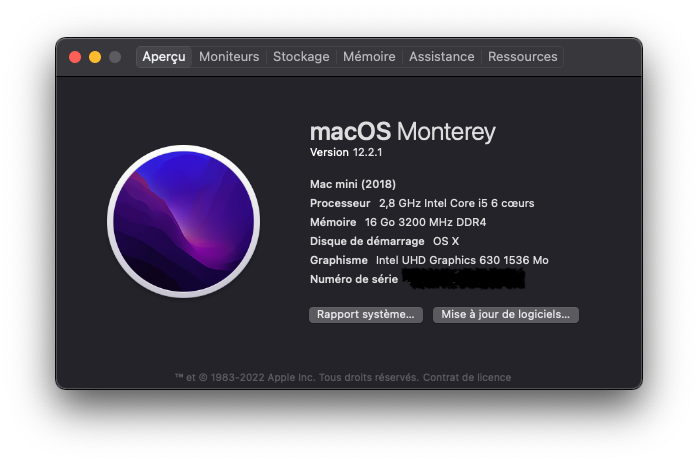
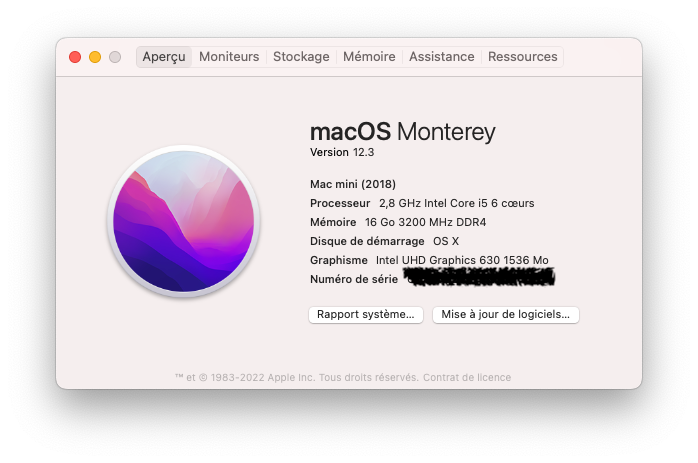
upgraded to Montery 12.3

diff --git a/README.md b/README.md
@@ -1,6 +1,6 @@
 # Hackintosh
 
-A Hackintosh running macOS Monterey 12.2.1 with a i5-8400 and a Gigabyte Z370-HD3P.
+A Hackintosh running macOS Monterey 12.3 with a i5-8400 and a Gigabyte Z370-HD3P.
 
 ![System spec](Pictures/system.png)
 
@@ -39,7 +39,7 @@ If you're curious, I changed two things in my `config.plist` to fix Catalina:
 
 I built my Hackintosh because I was disappointed with the price of the new Mac Mini 2018. Its configuration is close to the new mid-entry Mac Mini but with more RAM (16 instead of 8 Gb). Here are the specs:
 
-- macOS Monterey 12.2.1
+- macOS Monterey 12.3
 - Intel i5-8400 (6 cores @ 2.80 Ghz, 3.80 Ghz Turbo Boost)
 - Gigabyte Z370-HD3P
 - Corsair Vengeance LPX 16Gb (2x8Gb) DDR4 2666MHz OC @ 3200 Mhz (CMK16GX4M2A2666C16)
